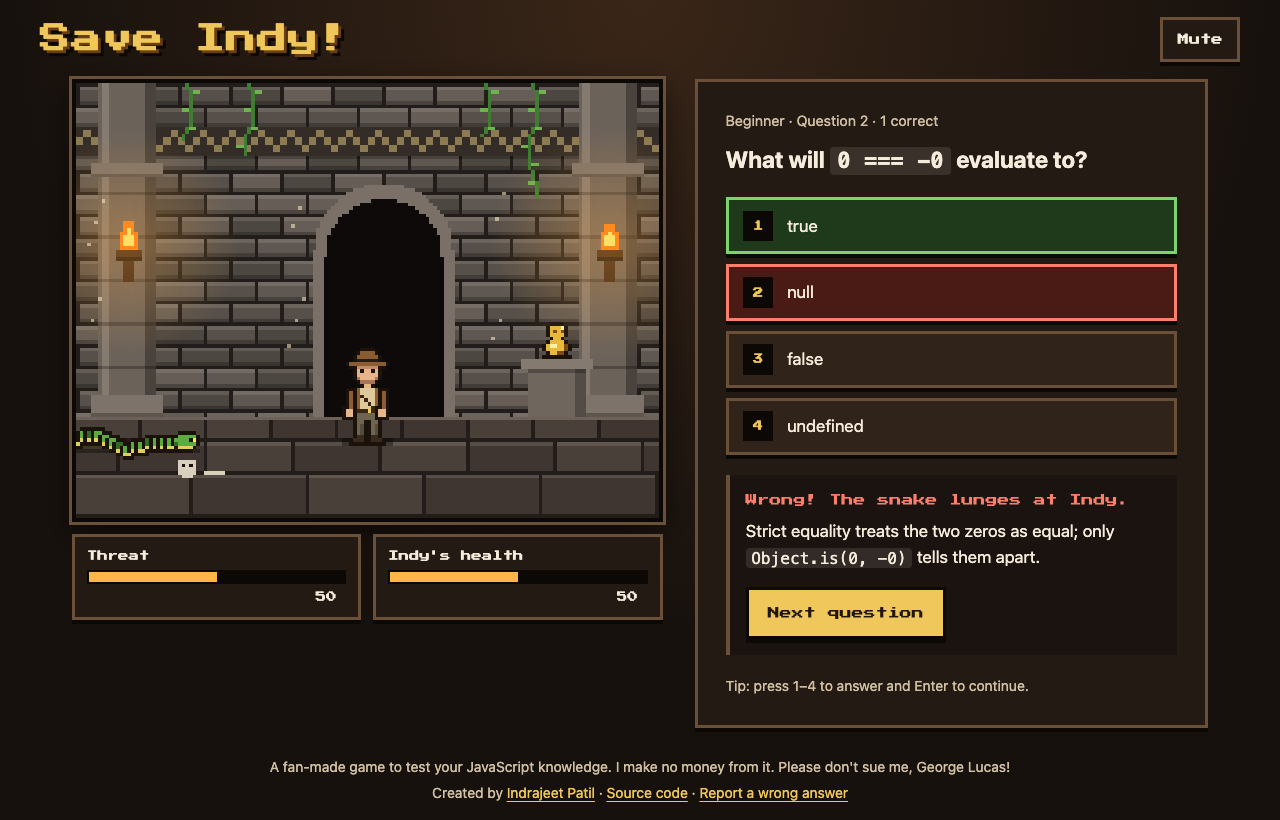
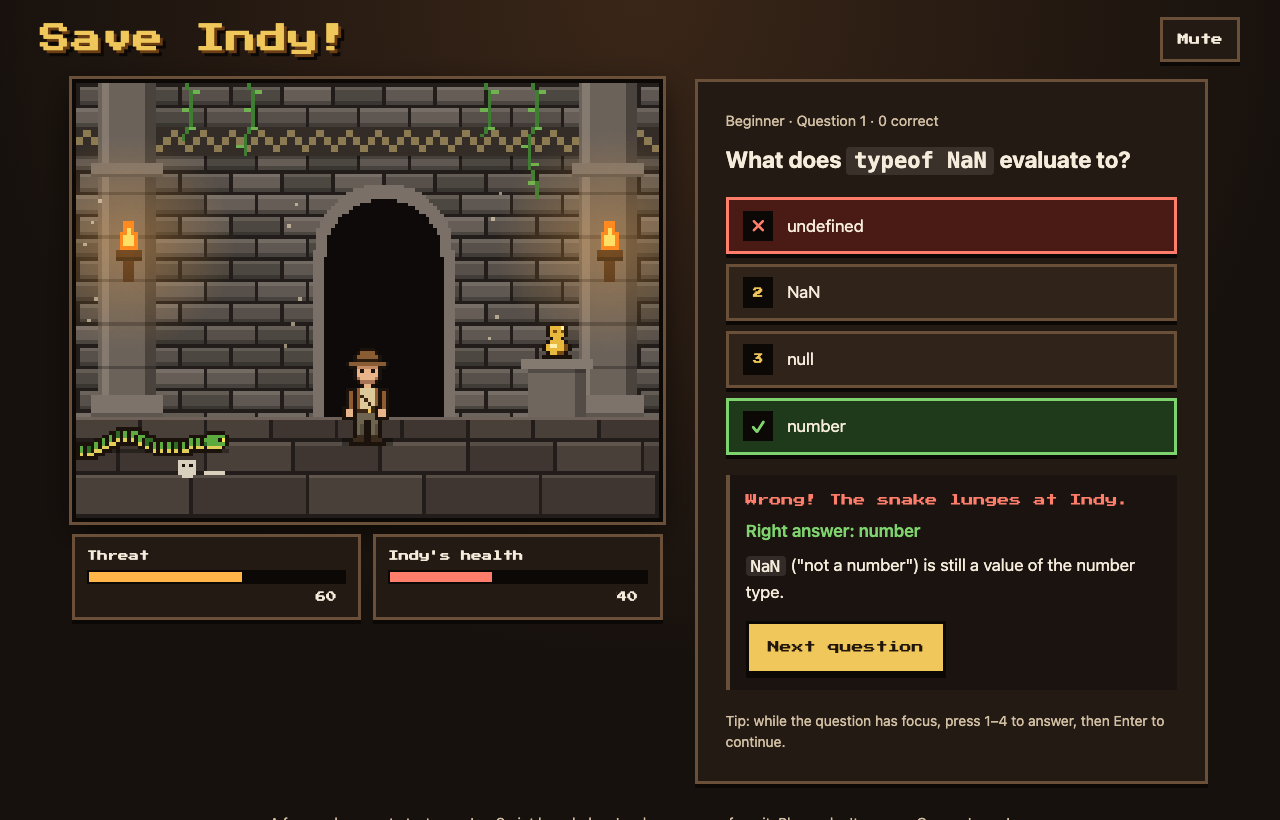
fix(a11y): name the right answer and scope number-key shortcuts
- after a miss, show and announce the right answer, mark answers with
  check and cross symbols and screen-reader labels, not colour alone
- keys 1-4 only answer while focus is inside the question, so they
  cannot fire from other controls (WCAG 2.1.4)

diff --git a/src/view.ts b/src/view.ts
@@ -44,6 +44,7 @@ interface View {
   readonly answers: HTMLOListElement;
   readonly feedback: HTMLElement;
   readonly verdict: HTMLElement;
+  readonly rightAnswer: HTMLElement;
   readonly explanation: HTMLElement;
   readonly next: HTMLButtonElement;
   readonly result: HTMLElement;
@@ -80,6 +81,7 @@ function findView(root: Document): View {
     answers: list("answers"),
     feedback: element("feedback"),
     verdict: element("verdict"),
+    rightAnswer: element("right-answer"),
     explanation: element("explanation"),
     next: button("next-button"),
     result: element("result"),
@@ -100,14 +102,6 @@ function showScreen(view: View, name: ScreenName): void {
   for (const [key, screen] of Object.entries(view.screens)) {
     screen.hidden = key !== name;
   }
-}
-
-/**
- * @param view The game view.
- * @returns Whether a question is on screen.
- */
-function isAsking(view: View): boolean {
-  return view.screens.question.hidden !== true;
 }
 
 /**
@@ -210,12 +204,32 @@ function renderQuestion(
   view.feedback.hidden = true;
 }
 
+/** Text and symbol that mark an answer without relying on colour. */
+const MARKS = {
+  correct: { symbol: "✓", label: " (right answer)" },
+  wrong: { symbol: "✗", label: " (your answer)" },
+} as const;
+
+function markAnswer(button: HTMLButtonElement, mark: keyof typeof MARKS) {
+  button.classList.add(mark === "correct" ? "is-correct" : "is-wrong");
+  const key = button.querySelector(".answer-key");
+  if (key !== null) {
+    key.textContent = MARKS[mark].symbol;
+  }
+  const label = make(button.ownerDocument, "span", "visually-hidden");
+  label.textContent = MARKS[mark].label;
+  button.append(label);
+}
+
 function markAnswers(view: View, correct: string, choice: string | null) {
   for (const button of view.answers.querySelectorAll("button")) {
     const shown = button.dataset["choice"];
     button.disabled = true;
-    button.classList.toggle("is-correct", shown === correct);
-    button.classList.toggle("is-wrong", shown === choice && shown !== correct);
+    if (shown === correct) {
+      markAnswer(button, "correct");
+    } else if (shown === choice) {
+      markAnswer(button, "wrong");
+    }
   }
 }
 
@@ -232,6 +246,8 @@ function renderFeedback(view: View, state: GameState): void {
     ? "Correct! Your whip cracks and the snake recoils."
     : "Wrong! The snake lunges at Indy.";
   view.verdict.dataset["result"] = isCorrect ? "correct" : "wrong";
+  setRichText(view.rightAnswer, `Right answer: ${question.correct}`);
+  view.rightAnswer.hidden = isCorrect;
   setRichText(view.explanation, question.explanation);
   view.next.textContent =
     outcome(state) === "playing" ? "Next question" : "See the result";
@@ -273,7 +289,6 @@ export type { ScreenName, View };
 export {
   announce,
   findView,
-  isAsking,
   renderEnd,
   renderFeedback,
   renderLevels,

diff --git a/src/app.test.ts b/src/app.test.ts
@@ -96,10 +96,8 @@ describe("answering", () => {
     );
   });
 
-  test("number keys pick answers, but only while a question is shown", () => {
+  test("number keys pick answers while focus is in the question", () => {
     const { sound } = setup();
-
-    press("1");
     start();
     press("1", { ctrlKey: true });
     press("x");
@@ -109,6 +107,48 @@ describe("answering", () => {
     press("1");
 
     expect(sound.whip).toHaveBeenCalledOnce();
+  });
+
+  test("number keys do nothing while focus is elsewhere", () => {
+    const { sound } = setup();
+    press("1");
+    start();
+    byId("mute-toggle").focus();
+
+    press("1");
+
+    expect(sound.whip).not.toHaveBeenCalled();
+    expect(byId("feedback").hidden).toBe(true);
+  });
+
+  test("names the right answer after a miss, not just by colour", () => {
+    setup();
+    start();
+
+    clickAnswer("wrong 2");
+
+    expect({
+      reveal: byId("right-answer").textContent,
+      revealShown: byId("right-answer").hidden,
+      right: document.querySelector(".is-correct")?.textContent,
+      wrong: document.querySelector(".is-wrong")?.textContent,
+      announced: byId("announcer").textContent.includes("Right answer: right"),
+    }).toStrictEqual({
+      reveal: "Right answer: right",
+      revealShown: false,
+      right: "✓right (right answer)",
+      wrong: "✗wrong 2 (your answer)",
+      announced: true,
+    });
+  });
+
+  test("keeps the reveal hidden after a right answer", () => {
+    setup();
+    start();
+
+    clickAnswer("right");
+
+    expect(byId("right-answer").hidden).toBe(true);
   });
 
   test("moves on to the next question", () => {

diff --git a/src/app.ts b/src/app.ts
@@ -16,7 +16,6 @@ import type { Cue } from "./scene/scene.ts";
 import {
   announce,
   findView,
-  isAsking,
   renderEnd,
   renderFeedback,
   renderLevels,
@@ -129,7 +128,9 @@ class App {
     view.mute.addEventListener("click", () => {
       this.#toggleMute();
     });
-    view.root.addEventListener("keydown", (event) => {
+    // Single-key shortcuts only work while focus is inside the question, so
+    // they never fire from other controls (WCAG 2.1.4).
+    view.screens.question.addEventListener("keydown", (event) => {
       this.#onKey(event);
     });
   }
@@ -168,9 +169,12 @@ class App {
     this.#stage.update(game.threat, cue);
     renderStats(this.#view, game.threat, game.health);
     renderFeedback(this.#view, game);
+    const { verdict, rightAnswer, explanation } = this.#view;
+    const reveal =
+      rightAnswer.hidden === true ? "" : ` ${rightAnswer.textContent}`;
     announce(
       this.#view,
-      `${this.#view.verdict.textContent} ${this.#view.explanation.textContent}`,
+      `${verdict.textContent}${reveal} ${explanation.textContent}`,
     );
     this.#view.next.focus();
   }
@@ -218,7 +222,7 @@ class App {
 
   #onKey(event: KeyboardEvent): void {
     const index = ANSWER_KEYS.indexOf(event.key);
-    if (index === -1 || !isPlainKey(event) || !isAsking(this.#view)) {
+    if (index === -1 || !isPlainKey(event)) {
       return;
     }
     [...this.#view.answers.querySelectorAll("button")][index]?.click();

diff --git a/src/styles.css b/src/styles.css
@@ -398,6 +398,22 @@ code {
   background: var(--bad-surface);
 }
 
+/* The pixel font has no check or cross glyphs. */
+.answer.is-correct .answer-key,
+.answer.is-wrong .answer-key {
+  font-family: var(--body-font);
+  font-size: 1.1rem;
+  font-weight: 700;
+}
+
+.answer.is-correct .answer-key {
+  color: var(--good);
+}
+
+.answer.is-wrong .answer-key {
+  color: var(--bad);
+}
+
 .feedback {
   margin-top: 1.25rem;
   padding: 1rem;
@@ -418,6 +434,12 @@ code {
 
 .verdict[data-result="wrong"] {
   color: var(--bad);
+}
+
+.right-answer {
+  margin: 0 0 0.5rem;
+  font-weight: 600;
+  color: var(--good);
 }
 
 .explanation {

diff --git a/index.html b/index.html
@@ -240,6 +240,10 @@
               id="verdict"
             ></p>
             <p
+              class="right-answer"
+              id="right-answer"
+            ></p>
+            <p
               class="explanation"
               id="explanation"
             ></p>
@@ -251,7 +255,10 @@
               Next question
             </button>
           </div>
-          <p class="hint">Tip: press 1–4 to answer and Enter to continue.</p>
+          <p class="hint">
+            Tip: while the question has focus, press 1–4 to answer, then Enter
+            to continue.
+          </p>
         </div>
 
         <div

diff --git a/src/app.fixture.ts b/src/app.fixture.ts
@@ -93,7 +93,8 @@ const playToEnd = (choice: string): void => {
 };
 
 const press = (key: string, options: KeyboardEventInit = {}): void => {
-  document.dispatchEvent(
+  const target = document.activeElement ?? document.body;
+  target.dispatchEvent(
     new KeyboardEvent("keydown", { key, bubbles: true, ...options }),
   );
 };
